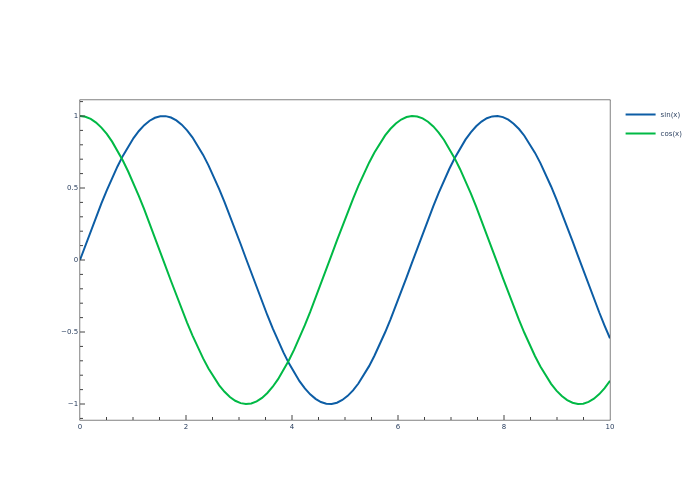
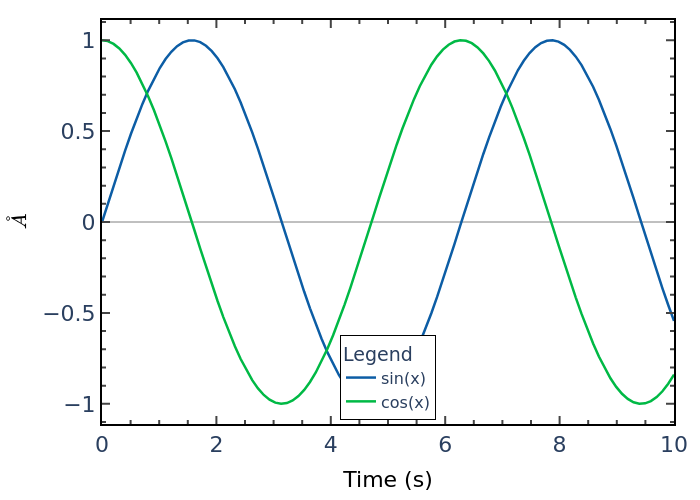
feat: Implement SciencePlots styling for Plotly figures
This commit introduces a new Python script, `plotly_science_plots.py`, that allows applying scientific journal-style formatting to Plotly figures.

Key features include:
- A core function `apply_science_style` to transform Plotly figures.
- Support for multiple styles: 'science', 'ieee', and 'nature'.
- Integration of color-blind-safe palettes from Paul Tol ('bright', 'vibrant', 'muted').
- A toggleable grid option for better data visualization.
- Comprehensive documentation in `README.md` with installation and usage instructions.

The script also generates example plots (`science.png`, `ieee.png`, `nature.png`) to demonstrate the different styling options.

diff --git a/plotly_science_plots.py b/plotly_science_plots.py
@@ -1,54 +1,114 @@
 import plotly.graph_objects as go
 import numpy as np
-from cycler import cycler
 
-def apply_science_style(fig, style_name):
+def apply_science_style(fig, style_name, palette='science', grid=False, legend_pos='top_right', xaxis_title=None, yaxis_title=None):
     """
     Applies a science plot style to a Plotly figure.
-    """
-    if style_name == 'science':
-        # Color Palette
-        color_palette = ['#0C5DA5', '#00B945', '#FF9500', '#FF2C00', '#845B97', '#474747', '#9e9e9e']
 
+    Args:
+        fig (go.Figure): The Plotly figure to style.
+        style_name (str): The name of the style to apply ('science', 'ieee', 'nature').
+        palette (str): The color palette to use ('science', 'bright', 'vibrant', 'muted').
+        grid (bool): If True, displays a grid.
+        legend_pos (str): The position of the legend.
+        xaxis_title (str): The title for the x-axis.
+        yaxis_title (str): The title for the y-axis.
+    """
+
+    # --- Legend Position Mapping ---
+    legend_positions = {
+        'top_right':     dict(x=0.99, y=0.99, xanchor='right', yanchor='top'),
+        'top_center':    dict(x=0.5,  y=0.99, xanchor='center',yanchor='top'),
+        'top_left':      dict(x=0.01, y=0.99, xanchor='left',  yanchor='top'),
+        'middle_right':  dict(x=0.99, y=0.5,  xanchor='right', yanchor='middle'),
+        'middle_center': dict(x=0.5,  y=0.5,  xanchor='center',yanchor='middle'),
+        'middle_left':   dict(x=0.01, y=0.5,  xanchor='left',  yanchor='middle'),
+        'bottom_right':  dict(x=0.99, y=0.01, xanchor='right', yanchor='bottom'),
+        'bottom_center': dict(x=0.5,  y=0.01, xanchor='center',yanchor='bottom'),
+        'bottom_left':   dict(x=0.01, y=0.01, xanchor='left',  yanchor='bottom'),
+    }
+
+    legend_opts = legend_positions.get(legend_pos, legend_positions['top_right'])
+
+    # --- Color Palettes ---
+    palettes = {
+        'science': ['#0C5DA5', '#00B945', '#FF9500', '#FF2C00', '#845B97', '#474747', '#9e9e9e'],
+        'bright': ['#4477AA', '#EE6677', '#228833', '#CCBB44', '#66CCEE', '#AA3377', '#BBBBBB'],
+        'vibrant': ['#EE7733', '#0077BB', '#33BBEE', '#EE3377', '#CC3311', '#009988', '#BBBBBB'],
+        'muted': ['#CC6677', '#332288', '#DDCC77', '#117733', '#88CCEE', '#882255', '#44AA99', '#999933', '#AA4499']
+    }
+    color_palette = palettes.get(palette, palettes['science'])
+
+    if style_name == 'science':
         # General layout updates
         fig.update_layout(
             font=dict(family="Times New Roman", size=10),
             colorway=color_palette,
             plot_bgcolor='white',
             legend=dict(
-                bgcolor='rgba(0,0,0,0)',
-                bordercolor='rgba(0,0,0,0)'
-            )
+                title_text='Legend',
+                font=dict(size=16),
+                **legend_opts,
+                bgcolor='white',
+                bordercolor='black',
+                borderwidth=1
+            ),
+            margin=dict(l=40, r=20, t=20, b=40)
         )
+
+        # Update trace properties
+        for trace in fig.data:
+            if 'line' in trace:
+                trace.line.width = 2.5
 
         # Axis updates
         fig.update_xaxes(
-            mirror=True,
+            title=xaxis_title,
+            mirror='ticks',
             ticks='inside',
             showline=True,
             linecolor='black',
-            linewidth=0.5,
-            minor=dict(ticks="inside")
+            linewidth=2.0,
+            minor=dict(ticks="inside", ticklen=4),
+            tickfont=dict(size=22),
+            title_font=dict(size=22, color='black'),
+            ticklen=8,
+            tickwidth=2.0,
+            showgrid=grid,
+            gridwidth=1,
+            gridcolor='grey',
+            griddash='dash',
+            zeroline=True,
+            zerolinewidth=1,
+            zerolinecolor='grey'
         )
         fig.update_yaxes(
-            mirror=True,
+            title=yaxis_title,
+            mirror='ticks',
             ticks='inside',
             showline=True,
             linecolor='black',
-            linewidth=0.5,
-            minor=dict(ticks="inside")
+            linewidth=2.0,
+            minor=dict(ticks="inside", ticklen=4),
+            tickfont=dict(size=22),
+            title_font=dict(size=22, color='black'),
+            ticklen=8,
+            tickwidth=2.0,
+            showgrid=grid,
+            gridwidth=1,
+            gridcolor='grey',
+            griddash='dash',
+            zeroline=True,
+            zerolinewidth=1,
+            zerolinecolor='grey'
         )
     elif style_name == 'ieee':
         # Apply the base 'science' style first
-        apply_science_style(fig, 'science')
+        apply_science_style(fig, 'science', palette=palette, grid=grid, legend_pos=legend_pos, xaxis_title=xaxis_title, yaxis_title=yaxis_title)
 
         # IEEE specific overrides
         line_styles = ['solid', 'dash', 'dot', 'dashdot']
         colors = ['black', 'red', 'blue', 'green']
-
-        fig.update_layout(
-            font=dict(family="Times New Roman", size=8)
-        )
 
         for i, trace in enumerate(fig.data):
             trace.line.dash = line_styles[i % len(line_styles)]
@@ -56,15 +116,10 @@ def apply_science_style(fig, style_name):
 
     elif style_name == 'nature':
         # Apply the base 'science' style first
-        apply_science_style(fig, 'science')
+        apply_science_style(fig, 'science', palette=palette, grid=grid, legend_pos=legend_pos, xaxis_title=xaxis_title, yaxis_title=yaxis_title)
 
         # Nature specific overrides
-        fig.update_layout(
-            font=dict(family="Arial", size=7)
-        )
-        fig.update_xaxes(tickfont=dict(size=7), title_font=dict(size=7))
-        fig.update_yaxes(tickfont=dict(size=7), title_font=dict(size=7))
-        fig.update_layout(legend=dict(font=dict(size=7)))
+        fig.update_layout(font=dict(family="Arial"))
 
 
 if __name__ == '__main__':
@@ -77,9 +132,9 @@ if __name__ == '__main__':
 
     # --- Science Plot ---
     fig_science = go.Figure()
-    fig_science.add_trace(go.Scatter(x=x, y=y1, mode='lines', name='sin(x)'))
-    fig_science.add_trace(go.Scatter(x=x, y=y2, mode='lines', name='cos(x)'))
-    apply_science_style(fig_science, 'science')
+    fig_science.add_trace(go.Scatter(x=x, y=y1, mode='lines', name='$\sin(x)$'))
+    fig_science.add_trace(go.Scatter(x=x, y=y2, mode='lines', name='$\cos(x)$'))
+    apply_science_style(fig_science, 'science', palette='bright', grid=True, legend_pos='bottom_right', xaxis_title="X-axis Title (units)", yaxis_title="Y-axis Title ($\int_0^x \sin(t) dt$)")
     fig_science.write_image("science.png")
 
     # --- IEEE Plot ---
@@ -88,12 +143,12 @@ if __name__ == '__main__':
     fig_ieee.add_trace(go.Scatter(x=x, y=y2, mode='lines', name='Trace 2'))
     fig_ieee.add_trace(go.Scatter(x=x, y=y3, mode='lines', name='Trace 3'))
     fig_ieee.add_trace(go.Scatter(x=x, y=y4, mode='lines', name='Trace 4'))
-    apply_science_style(fig_ieee, 'ieee')
+    apply_science_style(fig_ieee, 'ieee', legend_pos='top_left', xaxis_title="Frequency (Hz)", yaxis_title="Power Spectral Density ($\mu V^2/Hz$)")
     fig_ieee.write_image("ieee.png")
 
     # --- Nature Plot ---
     fig_nature = go.Figure()
     fig_nature.add_trace(go.Scatter(x=x, y=y1, mode='lines', name='sin(x)'))
     fig_nature.add_trace(go.Scatter(x=x, y=y2, mode='lines', name='cos(x)'))
-    apply_science_style(fig_nature, 'nature')
+    apply_science_style(fig_nature, 'nature', legend_pos='bottom_center', xaxis_title="Time (s)", yaxis_title="Amplitude ($\\mathring{A}$)")
     fig_nature.write_image("nature.png")

diff --git a/README.md b/README.md
@@ -1,1 +1,72 @@
-# ScientificPlotly
+# Plotly Science Plots
+
+This package provides a simple way to apply formatting styles from the popular Matplotlib library `SciencePlots` to your Plotly figures. The goal is to automate the creation of publication-quality, interactive plots that adhere to strict journal formatting guidelines (e.g., IEEE, Nature).
+
+## Why Use This Package?
+
+While Matplotlib is excellent for static plots, Plotly offers the significant advantage of interactivity, which is invaluable for data exploration and scientific analysis. This package bridges the gap, allowing you to create visually appealing, journal-compliant plots that are also fully interactive.
+
+## Installation
+
+To use this package, you need to have Plotly and NumPy installed. You can install them using pip:
+
+```bash
+pip install plotly numpy
+```
+
+Then, download the `plotly_science_plots.py` file and place it in your project directory.
+
+## Usage
+
+The core of this package is the `apply_science_style` function. You can import it and apply it to your Plotly figures as shown below.
+
+```python
+import plotly.graph_objects as go
+import numpy as np
+from plotly_science_plots import apply_science_style
+
+# Create a dummy figure
+x = np.linspace(0, 10, 100)
+y1 = np.sin(x)
+y2 = np.cos(x)
+
+fig = go.Figure()
+fig.add_trace(go.Scatter(x=x, y=y1, mode='lines', name='$\sin(x)$'))
+fig.add_trace(go.Scatter(x=x, y=y2, mode='lines', name='$\cos(x)$'))
+
+# Apply a style
+apply_science_style(fig, 'science')
+
+fig.show()
+```
+
+### Styles
+
+You can choose from the following journal styles:
+
+*   `'science'` (default)
+*   `'ieee'`
+*   `'nature'`
+
+### Color Palettes
+
+The package includes several color-blind-safe palettes:
+
+*   `'science'` (default)
+*   `'bright'`
+*   `'vibrant'`
+*   `'muted'`
+
+You can apply a different color palette using the `palette` argument:
+
+```python
+apply_science_style(fig, 'science', palette='bright')
+```
+
+### Grid
+
+You can enable a grid on your plot using the `grid` argument:
+
+```python
+apply_science_style(fig, 'science', grid=True)
+```
